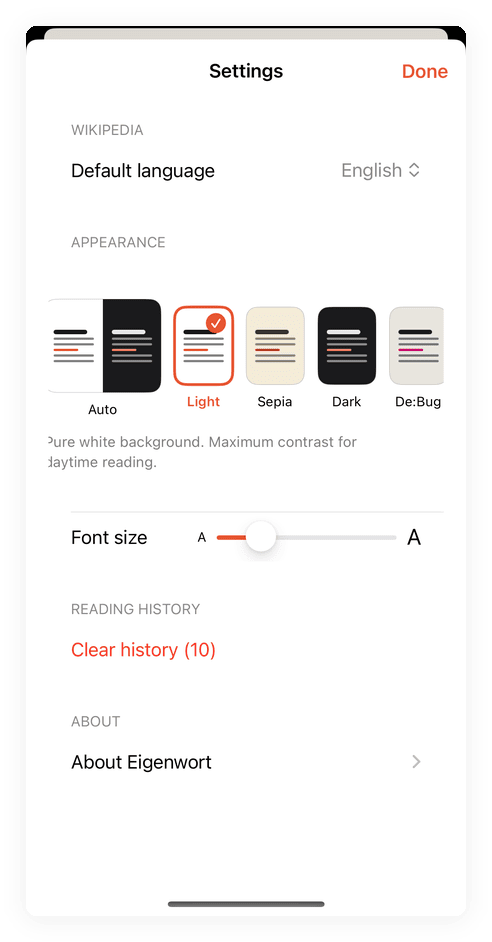
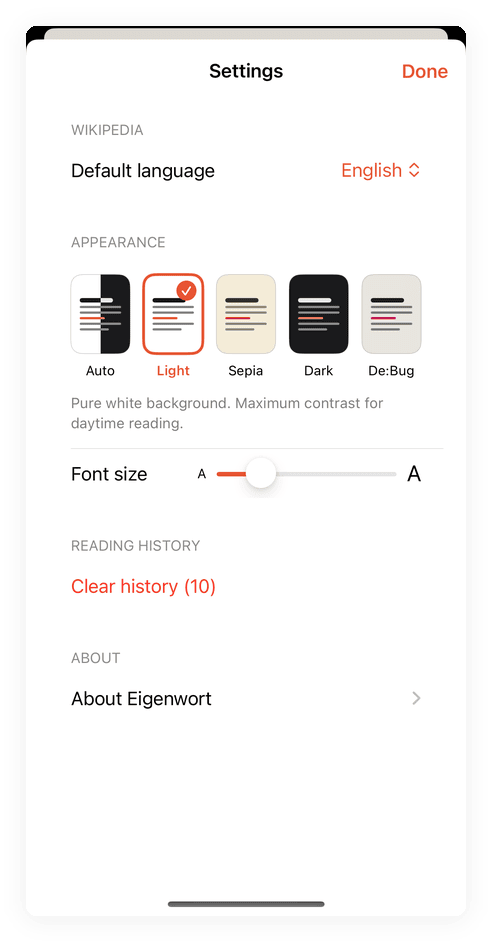
Settings: wear the theme, and fit five theme cards
The sheet was attached outside the theme modifiers, so Settings
always got Light's white ground: wrong in Sepia, De:Bug and Dark,
where it sat under system-dark rows. It also kept the scheme it
opened with, so picking Dark there left white rows on a dark
ground. Settings now names its scheme from the resolved theme.

The cards' lines had fixed widths, so since De:Bug made five the
row needed 360 pt and overflowed, clipping Auto, De:Bug and the
description. Lines are now fractions of the card, Auto is one page
split light and dark, and the previews read Palette instead of a
copy of it.

diff --git a/Folio/Sources/Settings/SettingsView.swift b/Folio/Sources/Settings/SettingsView.swift
@@ -74,6 +74,9 @@ struct SettingsView: View {
                 }
             }
         }
+        // The sheet keeps the scheme it opened with, so picking a theme here
+        // left Dark with white rows. The resolved theme always names one.
+        .preferredColorScheme(theme.colorScheme)
     }
 
     private var settings: AppSettings? { settingsList.first }
@@ -193,80 +196,56 @@ private struct ThemePreview: View {
 
     var body: some View {
         Group {
-            switch theme {
-            case .system:
-                HStack(spacing: 0) {
-                    ThemeMockup(palette: .light)
-                    ThemeMockup(palette: .dark)
-                }
-            case .light:
+            if theme == .system {
+                // Auto is the device's choice, so it shows both halves of one page.
                 ThemeMockup(palette: .light)
-            case .sepia:
-                ThemeMockup(palette: .sepia)
-            case .dark:
-                ThemeMockup(palette: .dark)
-            case .debug:
-                ThemeMockup(palette: .debug)
+                    .overlay {
+                        ThemeMockup(palette: .dark)
+                            .mask { HStack(spacing: 0) { Color.clear; Color.black } }
+                    }
+            } else {
+                ThemeMockup(palette: theme.palette)
             }
         }
         .clipShape(RoundedRectangle(cornerRadius: 10, style: .continuous))
     }
 }
 
+/// A page in miniature: a title, text, one link. Line lengths are fractions
+/// of the card so five cards fit across even the mini.
 private struct ThemeMockup: View {
-    let palette: ThemePalette
+    let palette: Palette
+
+    private enum Ink { case title, text, link }
+
+    private static let lines: [(length: CGFloat, ink: Ink)] = [
+        (0.8, .title), (1, .text), (1, .text), (0.6, .link), (1, .text), (0.7, .text)
+    ]
 
     var body: some View {
-        ZStack {
-            palette.bg
+        GeometryReader { proxy in
             VStack(alignment: .leading, spacing: 3) {
-                Capsule().fill(palette.fg)
-                    .frame(width: 30, height: 4)
-                Capsule().fill(palette.fg.opacity(0.55))
-                    .frame(maxWidth: .infinity)
-                    .frame(height: 2)
-                Capsule().fill(palette.fg.opacity(0.55))
-                    .frame(maxWidth: .infinity)
-                    .frame(height: 2)
-                Capsule().fill(palette.accent)
-                    .frame(width: 22, height: 2)
-                Capsule().fill(palette.fg.opacity(0.55))
-                    .frame(maxWidth: .infinity)
-                    .frame(height: 2)
-                Capsule().fill(palette.fg.opacity(0.55))
-                    .frame(width: 36, height: 2)
+                ForEach(Self.lines.indices, id: \.self) { index in
+                    let line = Self.lines[index]
+                    Capsule()
+                        .fill(color(line.ink))
+                        .frame(width: proxy.size.width * line.length, height: line.ink == .title ? 4 : 2)
+                }
             }
-            .padding(.horizontal, 8)
-            .padding(.vertical, 10)
+            .frame(maxWidth: .infinity, maxHeight: .infinity, alignment: .leading)
+        }
+        .padding(.horizontal, 8)
+        .padding(.vertical, 10)
+        .background(palette.backgroundColor)
+    }
+
+    private func color(_ ink: Ink) -> Color {
+        switch ink {
+        case .title: palette.foregroundColor
+        case .text: palette.foregroundColor.opacity(0.55)
+        case .link: Color(rgb: palette.link)
         }
     }
-}
-
-private struct ThemePalette {
-    let bg: Color
-    let fg: Color
-    let accent: Color
-
-    static let light = ThemePalette(
-        bg: Color(red: 1.0, green: 1.0, blue: 1.0),
-        fg: Color(red: 0.10, green: 0.10, blue: 0.10),
-        accent: Color(red: 0.85, green: 0.32, blue: 0.13)
-    )
-    static let sepia = ThemePalette(
-        bg: Color(red: 0.957, green: 0.926, blue: 0.847),
-        fg: Color(red: 0.24, green: 0.18, blue: 0.11),
-        accent: Color(red: 0.71, green: 0.22, blue: 0.11)
-    )
-    static let dark = ThemePalette(
-        bg: Color(red: 0.102, green: 0.102, blue: 0.110),
-        fg: Color(red: 0.91, green: 0.91, blue: 0.92),
-        accent: Color(red: 1.0, green: 0.52, blue: 0.34)
-    )
-    static let debug = ThemePalette(
-        bg: Color(red: 0.910, green: 0.898, blue: 0.871),
-        fg: Color(red: 0.110, green: 0.106, blue: 0.098),
-        accent: Color(red: 0.788, green: 0.0, blue: 0.420)
-    )
 }
 
 // MARK: - About

diff --git a/Folio/Sources/Root/ContentView.swift b/Folio/Sources/Root/ContentView.swift
@@ -81,6 +81,9 @@ struct ContentView: View {
             }
             .animation(.easeInOut(duration: 0.18), value: isSearching)
         }
+        // A sheet takes the environment where it is attached, so this stays
+        // inside the theme modifiers or Settings falls back to Light.
+        .sheet(isPresented: $showSettings) { SettingsView() }
         // The chrome carries the theme's accent too: De:Bug is one spot
         // colour per issue, and an orange logo over magenta links reads as a
         // mistake rather than a costume.
@@ -91,7 +94,6 @@ struct ContentView: View {
             ensureSettingsRow()
             applyScreenshotOverrides()
         }
-        .sheet(isPresented: $showSettings) { SettingsView() }
     }
 
     @ViewBuilder
